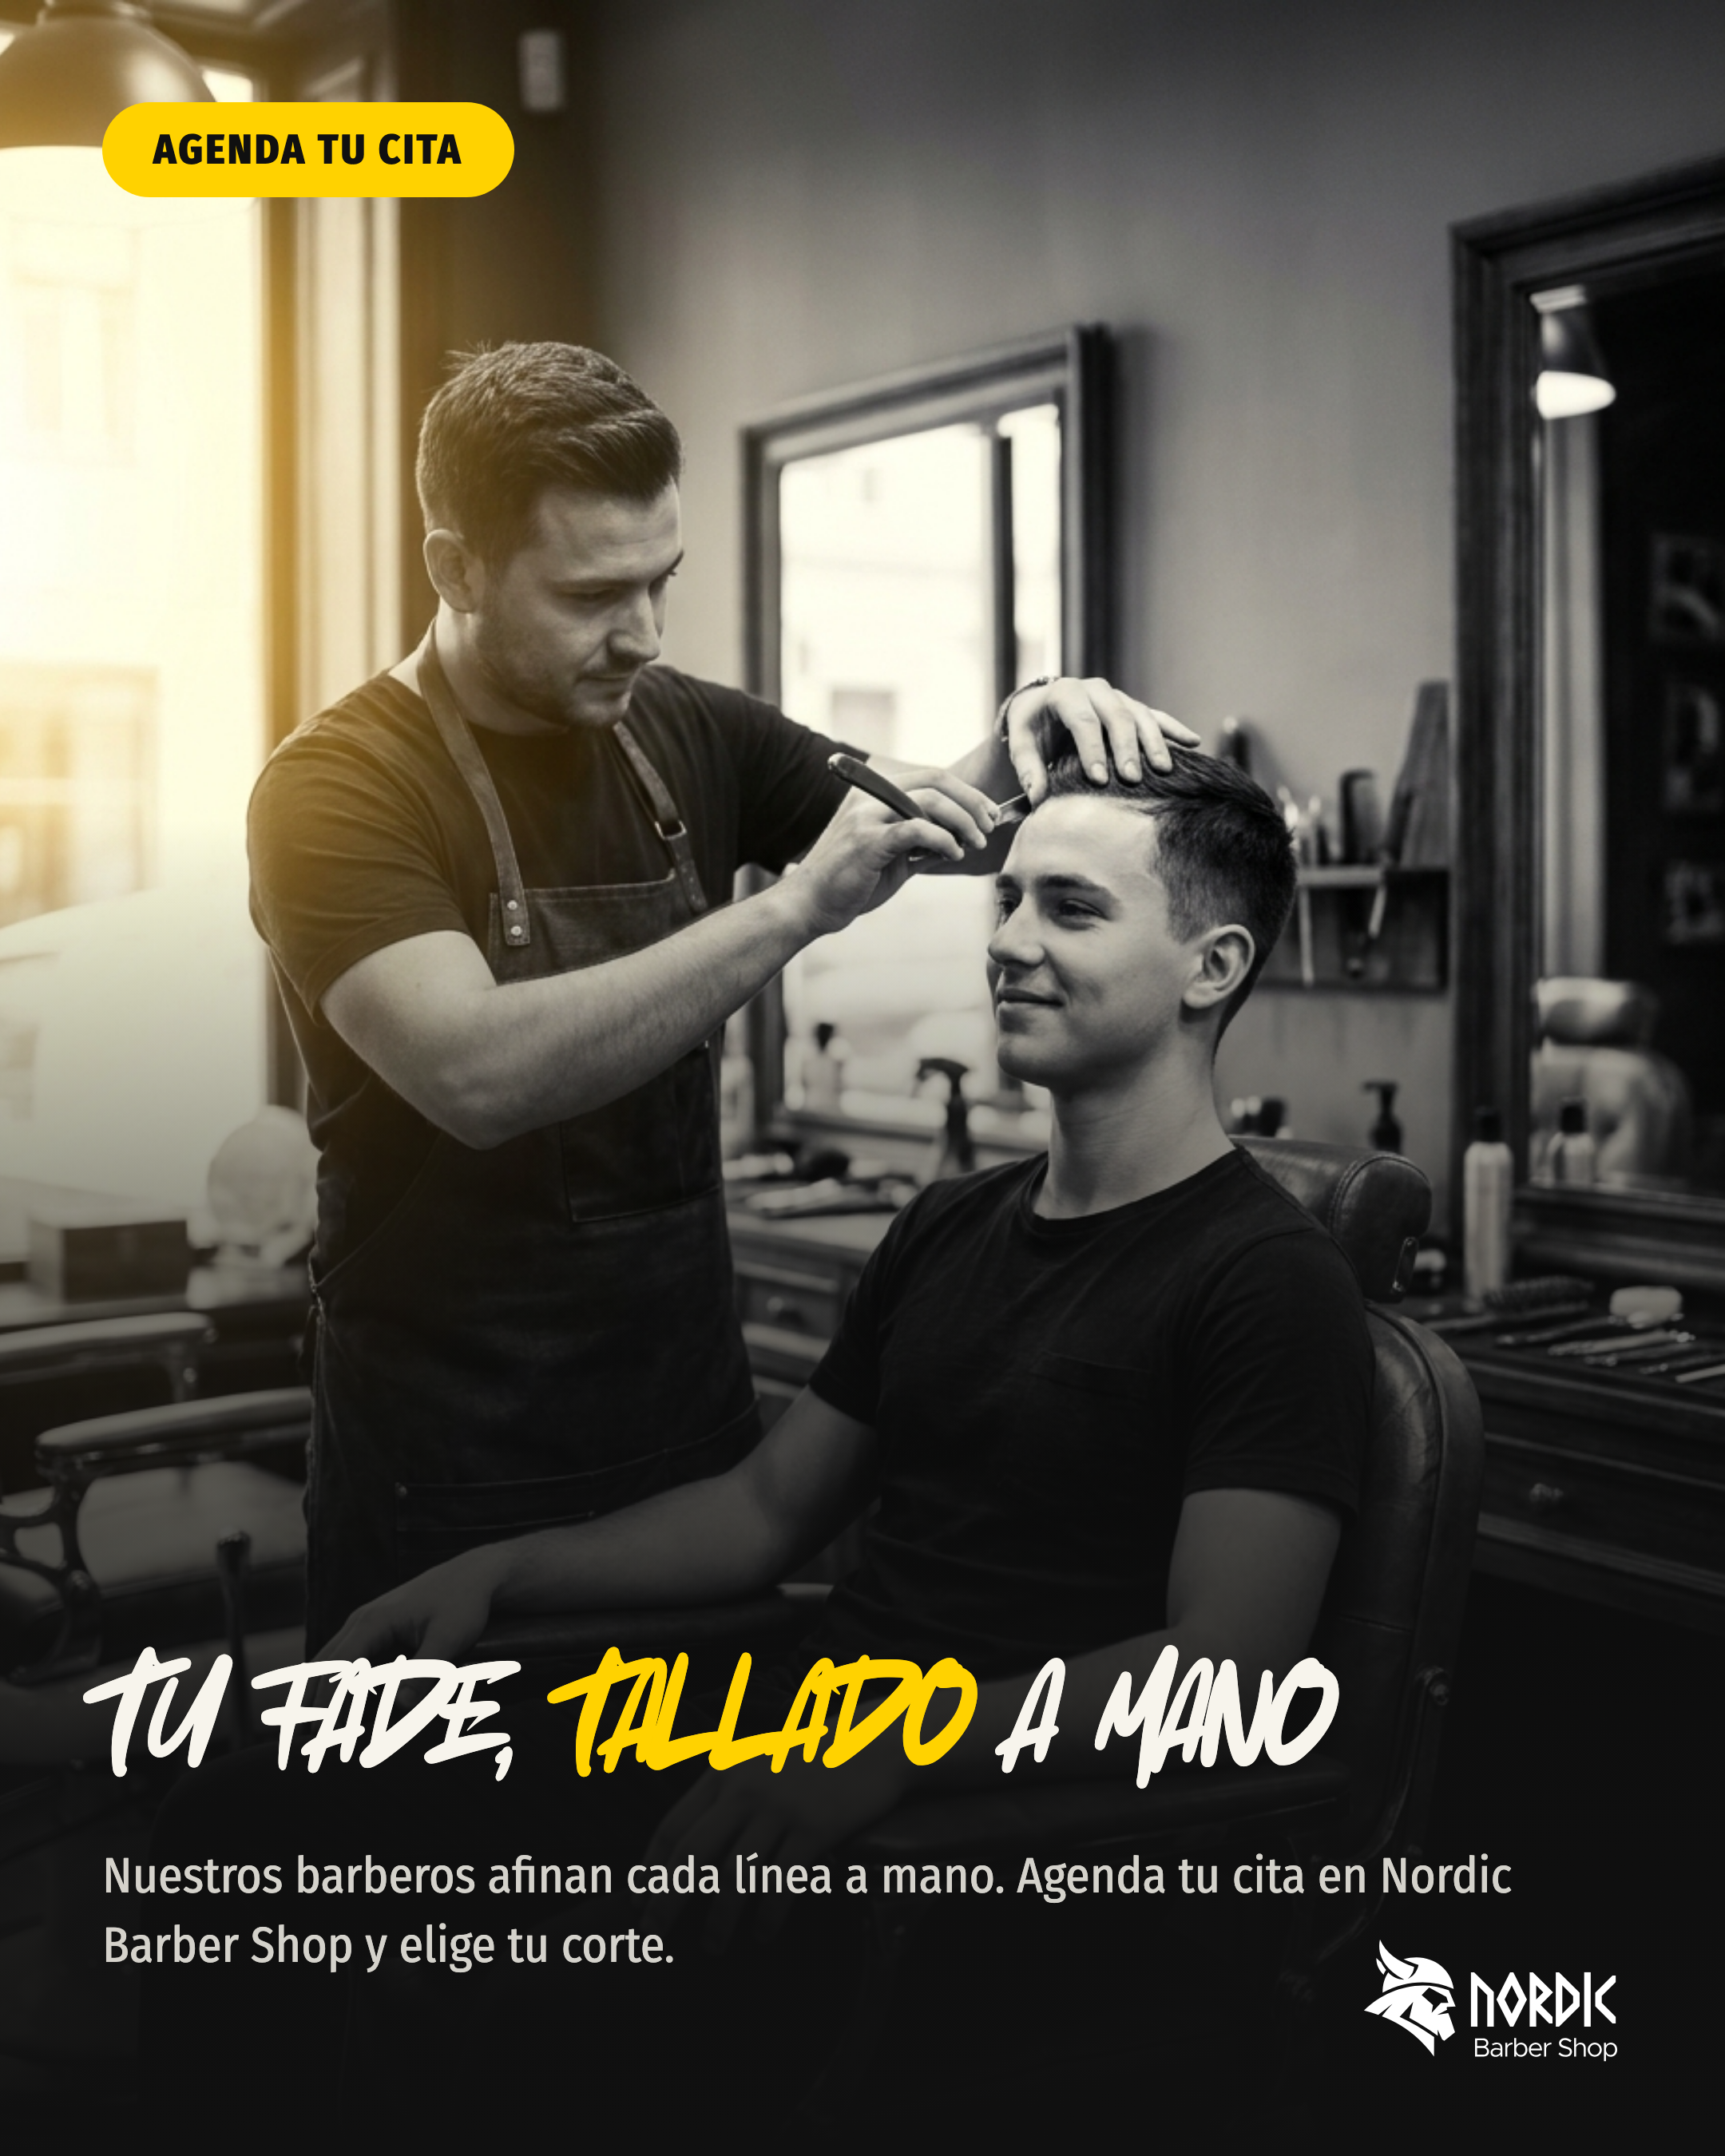
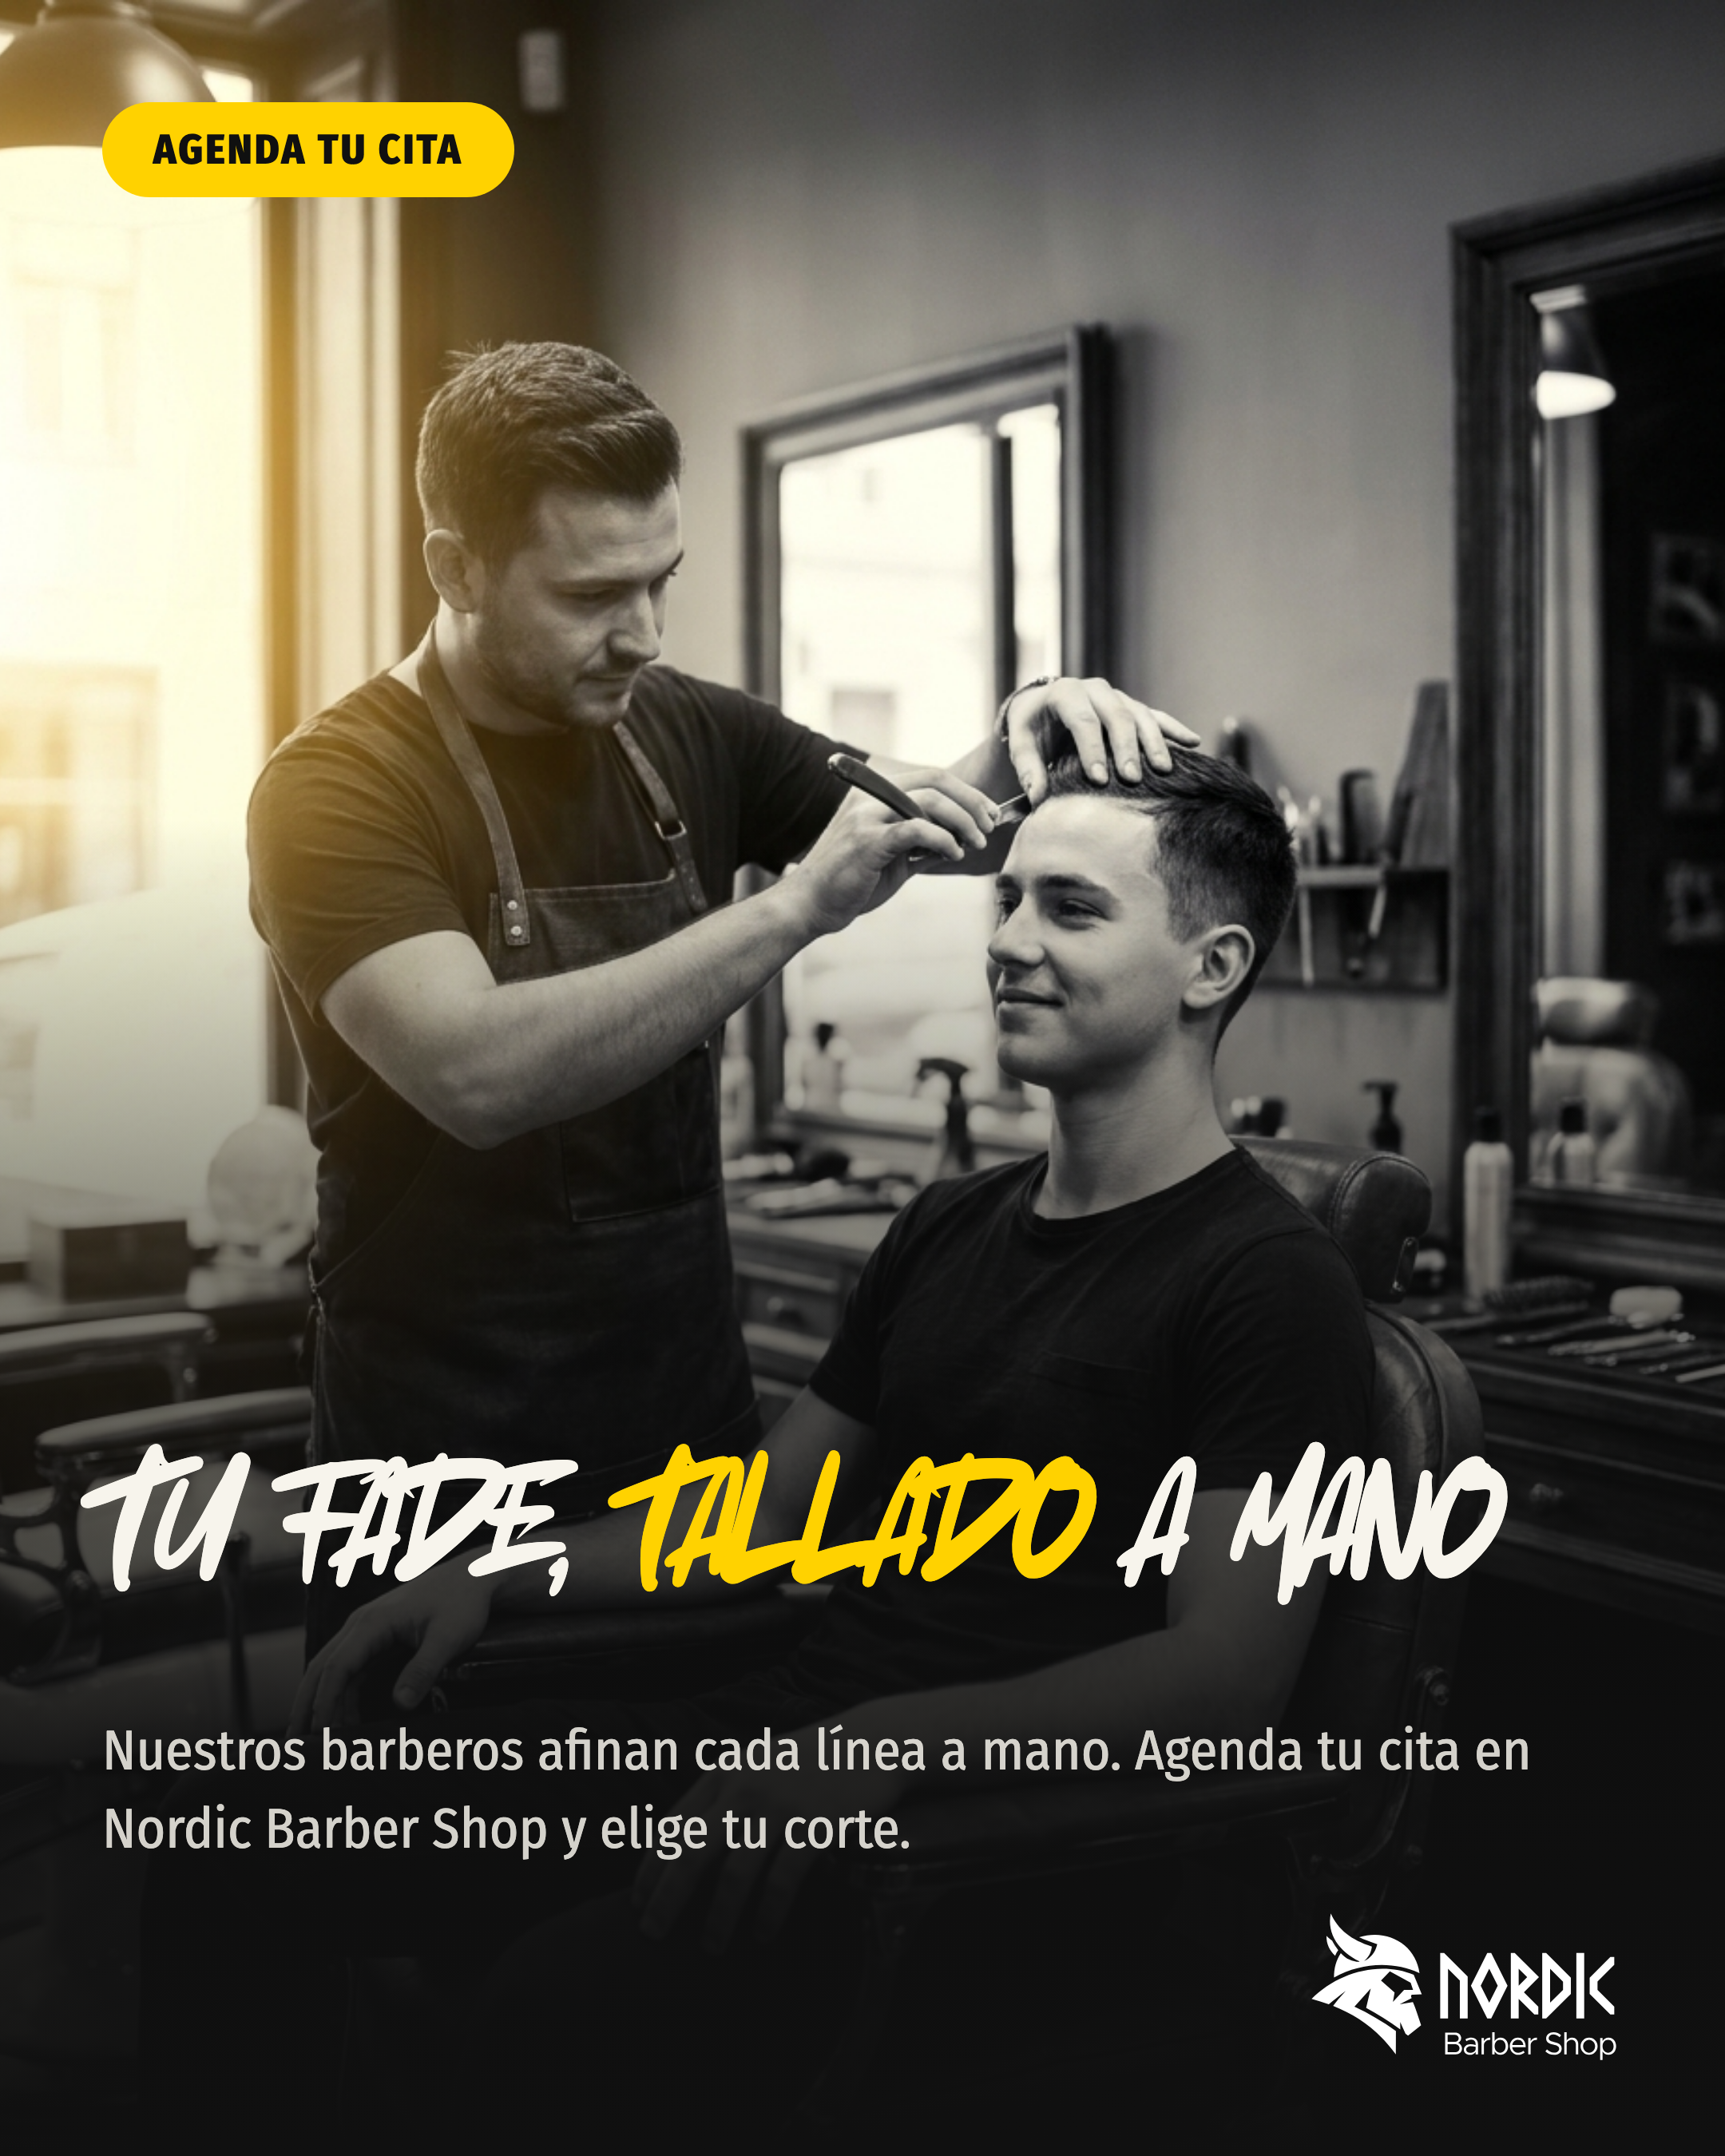
Rebuild cortes-pelo-hombre-tendencias slides via Option B + kie.ai
Slides 00-03 moved from full-AI (Higgsfield) to hybrid HTML overlay,
backgrounds generated with scripts/kie_image_gen.py (kie.ai) instead
of Higgsfield. Bumped headline/caption/logo size across the carousel
and fixed a caption/logo overlap the bigger text introduced. Portada
and buzz-cut slides got a second background option, per review.

Add the carousel to the root index.html content-review landing page.

Changed region(s): [[0.031, 0.6533, 0.9306, 0.9644], [0.5273, 0.8711, 0.5583, 0.9022]]

diff --git a/posts/instagram/cortes-pelo-hombre-tendencias/index.html b/posts/instagram/cortes-pelo-hombre-tendencias/index.html
@@ -61,9 +61,9 @@
   .headline{
     position:absolute;
     left:64px; right:64px;
-    bottom:230px;
+    bottom:345px;
     font-family:"Lost in South";
-    font-size:88px;
+    font-size:100px;
     line-height:0.98;
     text-transform:uppercase;
     color:#F7F4EC;
@@ -72,10 +72,10 @@
   .caption{
     position:absolute;
     left:64px; right:64px;
-    bottom:110px;
+    bottom:180px;
     font-family:"Fira Sans Condensed";
     font-weight:400;
-    font-size:31px;
+    font-size:35px;
     line-height:1.4;
     color:#F7F4EC;
     opacity:.85;
@@ -84,7 +84,7 @@
     position:absolute;
     right:64px;
     bottom:56px;
-    height:83px;
+    height:100px;
   }
 </style>
 </head>
@@ -100,9 +100,13 @@
 
 <script>
   const slides = [
+    { bg:"assets/bg-00-portada-v2.png", pill:"Tendencias 2026", headline:"Siete cortes que si funcionan", highlight:"funcionan", caption:"Del skin fade al mullet: los cortes de hombre que vas a ver este año. Desliza y elige el tuyo." },
+    { bg:"assets/bg-01-skin-fade.png", pill:"01/07 · Skin fade", headline:"Corto hasta la piel", highlight:"piel", caption:"Buzz cut arriba, degradado total atrás y en los lados hasta fundirse con la piel. El fade más limpio que existe." },
+    { bg:"assets/bg-02-taper-fade.png", pill:"02/07 · Taper fade", headline:"Precision en la nuca", highlight:"precision", caption:"El degradado se concentra en la nuca y alrededor de las orejas, dejando el resto del corte casi intacto. La versión más sutil del fade." },
+    { bg:"assets/bg-03-drop-fade.png", pill:"03/07 · Drop fade", headline:"El fade que cae en curva", highlight:"curva", caption:"Arranca arriba de la cabeza y desciende en curva hacia la nuca, marcando la forma del cráneo con el degradado." },
     { bg:"assets/bg-04-burst-fade.png", pill:"04/07 · Burst fade", headline:"Corte con movimiento", highlight:"movimiento", caption:"Un corte semicircular alrededor de la oreja crea un efecto dinámico, ideal para combinar con top texturizado o flequillo." },
     { bg:"assets/bg-05-french-crop.png", pill:"05/07 · French crop", headline:"Textura arriba, estilo francés", highlight:"textura", caption:"Top texturizado con flequillo peinado hacia adelante. Se adapta a cualquier tipo de pelo y nivel de fade en los lados." },
-    { bg:"assets/bg-06-buzz-cut.png", pill:"06/07 · Buzz cut", headline:"Corto, parejo, sin vuelta", highlight:"parejo", caption:"Entre 1 y 4 mm de largo en toda la cabeza. El corte de menor mantenimiento que existe, listo en minutos." },
+    { bg:"assets/bg-06-buzz-cut-v2.png", pill:"06/07 · Buzz cut", headline:"Corto, parejo, sin vuelta", highlight:"parejo", caption:"Entre 1 y 4 mm de largo en toda la cabeza. El corte de menor mantenimiento que existe, listo en minutos." },
     { bg:"assets/bg-07-mullet.png", pill:"07/07 · Mullet", headline:"Corto adelante, largo atrás", highlight:"largo", caption:"Contraste puro: lados y frente cortos, nuca larga. El corte retro que volvió con fuerza este año." },
     { bg:"assets/bg-08-cita.png", pill:"Agenda tu cita", headline:"Tu fade, tallado a mano", highlight:"tallado", caption:"Nuestros barberos afinan cada línea a mano. Agenda tu cita en Nordic Barber Shop y elige tu corte." }
   ];

diff --git a/index.html b/index.html
@@ -355,6 +355,14 @@ const POSTS = [
     previewHref:'posts/instagram/tipos-de-cara-barba/instagram-preview.html'
   },
   {
+    id:'cortes-pelo-hombre-tendencias',
+    type:'carousel',
+    title:'Cortes de pelo para hombre - tendencias 2026',
+    cover:'posts/instagram/cortes-pelo-hombre-tendencias/00-portada.png',
+    alt:'Carrusel: cortes de pelo para hombre, tendencias 2026',
+    previewHref:'posts/instagram/cortes-pelo-hombre-tendencias/instagram-preview.html'
+  },
+  {
     id:'habitos-cuidado-personal-story',
     type:'video',
     title:'Story: hábitos de cuidado personal',